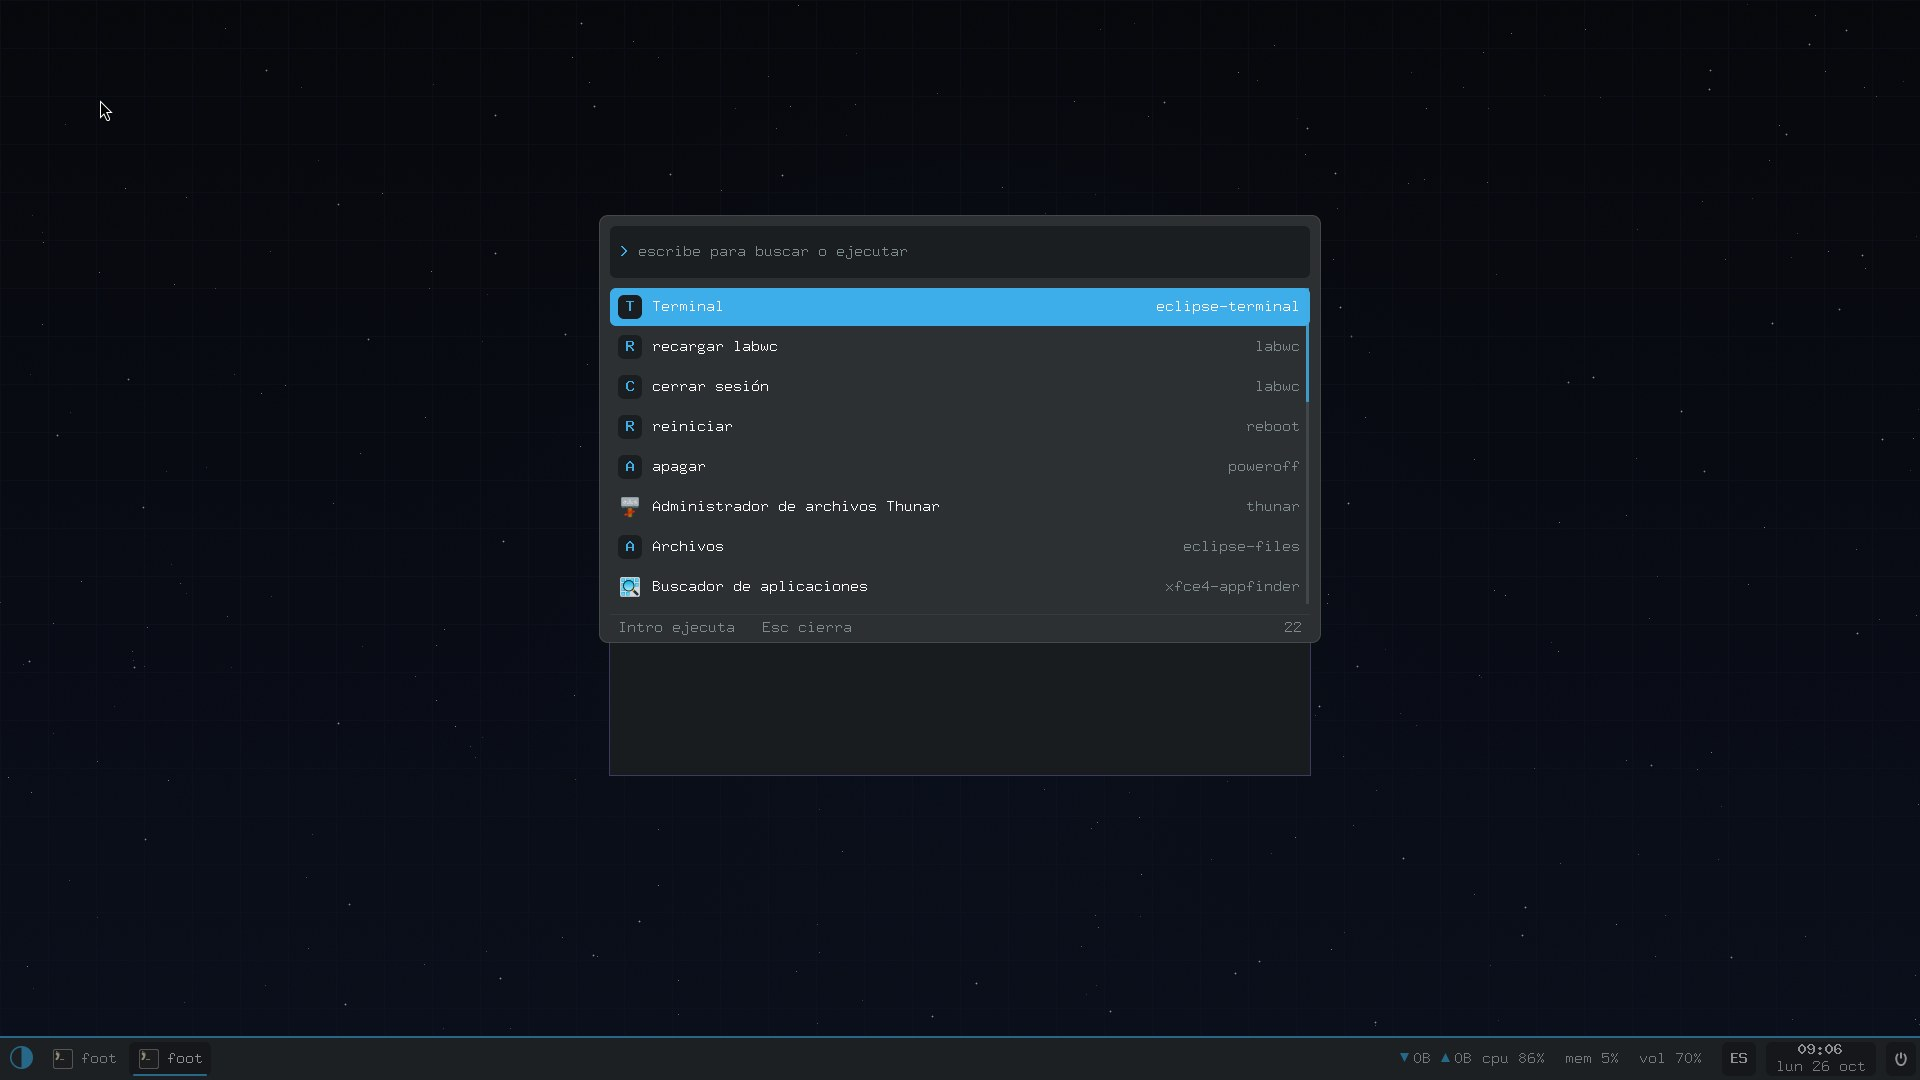
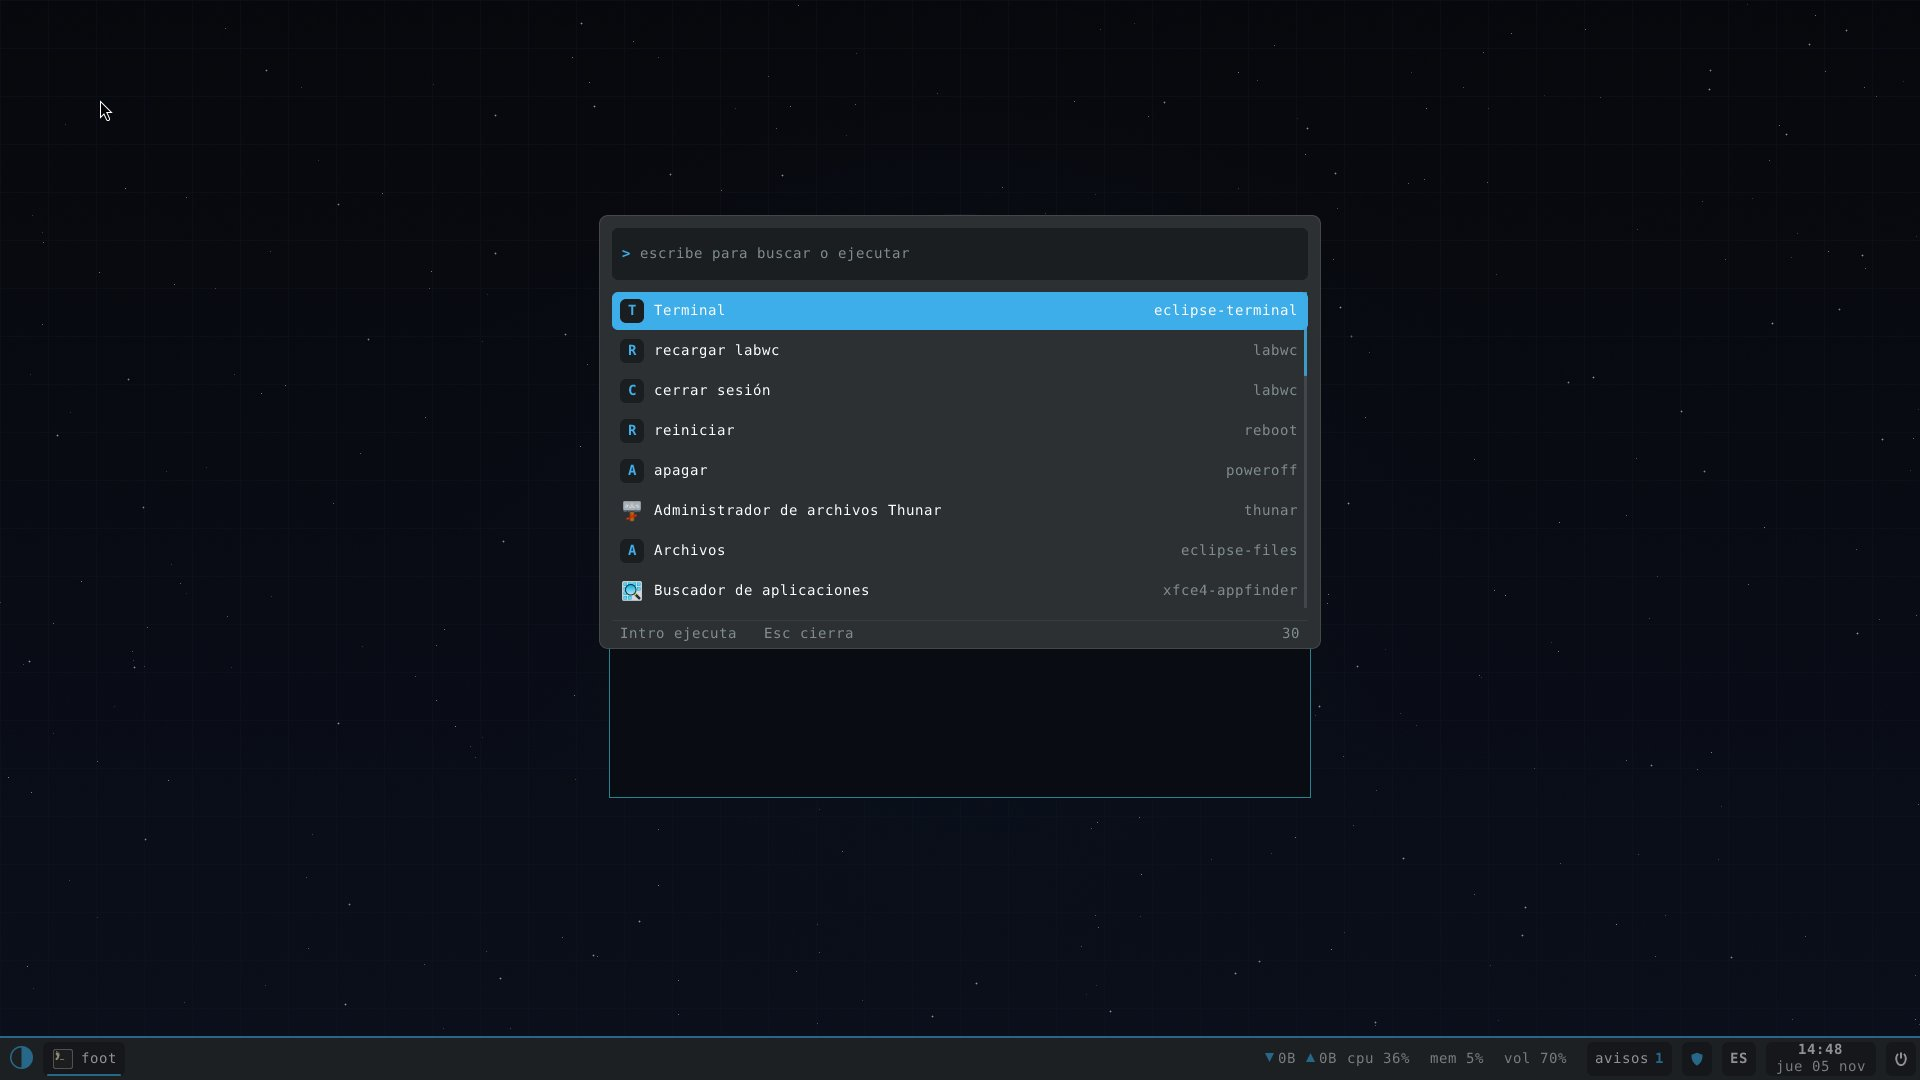
Capturas nuevas del escritorio de Eclipse OS 0.7.1
El escritorio ha cambiado (lunarbg con el eclipse, lunarbar nuevo,
lanzador y arranque en oscuro). Capturas rehechas en QEMU con la imagen
compilada desde master, y una pestaña nueva con el monitor lunarmon.

Claude-Session: https://claude.ai/code/session_01MWtQgBJ6F1VA9WdxMG6GJL

diff --git a/index.html b/index.html
@@ -57,8 +57,8 @@
 
     <div class="wrap">
       <figure class="screen reveal">
-        <div class="screen-bar"><i></i><i></i><i></i><span>Eclipse OS 0.6.1 · escritorio labwc</span></div>
-        <img src="assets/shots/escritorio.jpg" alt="Escritorio de Eclipse OS con el fondo animado de la media luna dorada y los paneles superior e inferior" width="1920" height="1080">
+        <div class="screen-bar"><i></i><i></i><i></i><span>Eclipse OS 0.7.1 · escritorio labwc</span></div>
+        <img src="assets/shots/escritorio.jpg" alt="Escritorio de Eclipse OS con el eclipse dorado del fondo animado y los paneles superior e inferior" width="1920" height="1080">
       </figure>
       <p class="caption">Captura real de Eclipse OS funcionando en QEMU.</p>
     </div>
@@ -121,7 +121,7 @@
       <div class="sec-head reveal">
         <span class="kicker">Así se ve</span>
         <h2>Eclipse OS, <span class="grad-text">en marcha</span></h2>
-        <p>Capturas reales de la ISO oficial 0.6.1 arrancada en QEMU. Elige una pestaña.</p>
+        <p>Capturas reales de Eclipse OS 0.7.1, compilado desde el código actual y arrancado en QEMU. Elige una pestaña.</p>
       </div>
 
       <div class="showcase reveal">
@@ -129,9 +129,10 @@
           <button role="tab" class="tab active" data-shot="0">Escritorio</button>
           <button role="tab" class="tab" data-shot="1">Lanzador</button>
           <button role="tab" class="tab" data-shot="2">Terminal</button>
-          <button role="tab" class="tab" data-shot="3">Estilo KDE</button>
-          <button role="tab" class="tab" data-shot="4">Estilo Windows 11</button>
-          <button role="tab" class="tab" data-shot="5">Arranque</button>
+          <button role="tab" class="tab" data-shot="3">Monitor</button>
+          <button role="tab" class="tab" data-shot="4">Estilo KDE</button>
+          <button role="tab" class="tab" data-shot="5">Estilo Windows 11</button>
+          <button role="tab" class="tab" data-shot="6">Arranque</button>
         </div>
         <div class="showcase-body">
           <figure class="screen">
@@ -140,6 +141,7 @@
               <img class="shot active" src="assets/shots/escritorio.jpg" alt="Escritorio de Eclipse OS" width="1920" height="1080">
               <img class="shot" src="assets/shots/lanzador.jpg" alt="Lanzador de aplicaciones de Eclipse OS" loading="lazy" width="960" height="540">
               <img class="shot" src="assets/shots/terminal.jpg" alt="Terminal foot con uname, memoria, disco y el estado de hunter" loading="lazy" width="1040" height="585">
+              <img class="shot" src="assets/shots/monitor.jpg" alt="Monitor del sistema lunarmon con CPU por núcleo, memoria, red, disco y la lista de procesos" loading="lazy" width="1440" height="810">
               <img class="shot" src="assets/shots/estilo-kde.jpg" alt="Eclipse OS con el estilo KDE" loading="lazy" width="1920" height="1080">
               <img class="shot" src="assets/shots/estilo-win11.jpg" alt="Eclipse OS con el estilo Windows 11" loading="lazy" width="1920" height="1080">
               <img class="shot" src="assets/shots/arranque.jpg" alt="Pantalla de arranque de Eclipse OS" loading="lazy" width="1920" height="1080">
@@ -148,7 +150,7 @@
           <div class="shot-text">
             <div class="desc active">
               <h3>Un cielo propio</h3>
-              <p>El fondo <code>lunarbg</code> dibuja en tiempo real la media luna dorada, los anillos que giran y las estrellas. Arriba, el panel con red, disco, temperatura y fecha. Abajo, tareas, CPU, memoria y volumen.</p>
+              <p>El fondo <code>lunarbg</code> dibuja en tiempo real un eclipse con la hora, la fecha y la fase de la Luna de verdad. Arriba, <code>lunarbar</code> con los cuatro escritorios, CPU, memoria, red, temperatura y calendario. Abajo, tareas, volumen, avisos y el escudo de hunter.</p>
             </div>
             <div class="desc">
               <h3>Todo a una tecla</h3>
@@ -157,6 +159,10 @@
             <div class="desc">
               <h3>Una terminal que no miente</h3>
               <p><code>uname</code> dice Eclipse, la raíz vive en EclipseFS, su propio sistema de archivos, y <code>/proc/hunter</code> cuenta en directo lo que vigila el núcleo.</p>
+            </div>
+            <div class="desc">
+              <h3>Todo bajo control</h3>
+              <p><kbd>Ctrl</kbd>+<kbd>Mayús</kbd>+<kbd>Esc</kbd> abre <code>lunarmon</code>: carga por núcleo, memoria, red, disco, procesos y servicios de arranque. Y si un programa quiere salir a la red sin permiso, hunter te lo pregunta en un aviso.</p>
             </div>
             <div class="desc">
               <h3>¿Vienes de KDE?</h3>
